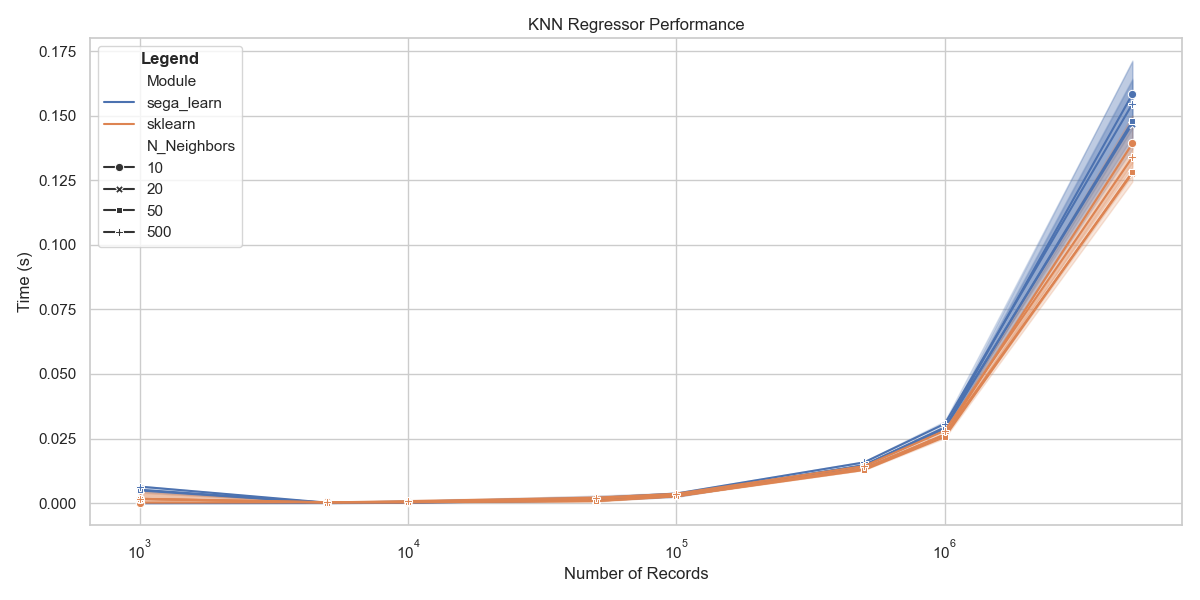
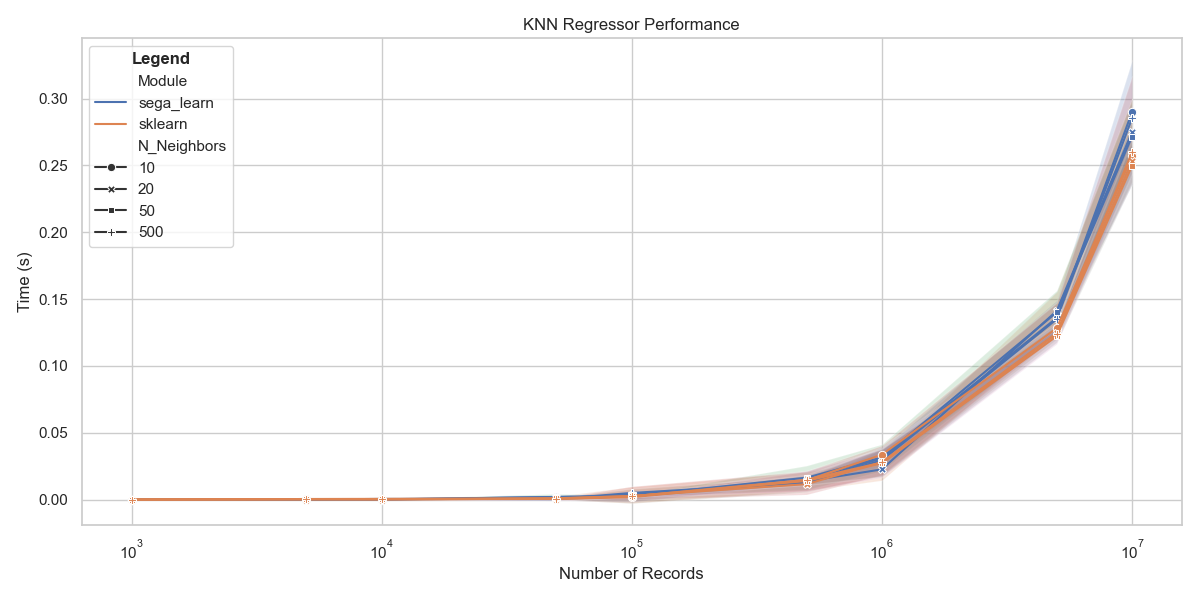
Enhance KNN performance tests with progress tracking and std dev plot

diff --git a/tests_performance/nearest_neighbors/test_nearest_neighbors.py b/tests_performance/nearest_neighbors/test_nearest_neighbors.py
@@ -4,7 +4,7 @@ import sys
 import time
 import numpy as np
 import pandas as pd
-import warnings
+from tqdm import tqdm
 
 # Change the working directory to the parent directory to allow importing the segadb package.
 sys.path.append(os.path.abspath(os.path.join(os.path.dirname(__file__), '..', '..')))
@@ -27,69 +27,90 @@ def time_function(func, num_repeats, *args, **kwargs):
     stddev_time = np.std(times)
     return avg_time, stddev_time, result
 
-def time_knn_classifiers(num_repeats=10, n_neighbors=list, n_records=list, n_jobs=1):
+def time_knn_classifiers(num_repeats=10, n_neighbors=list, n_records=list, n_jobs=int, num_features=int, num_classes=int):
     from sklearn.neighbors import KNeighborsClassifier as sklearn_knn
     
-    knn_classifiers = []
-    for n in n_neighbors:
-        knn_classifiers.append(KNeighborsClassifier(n_neighbors=n))
-        knn_classifiers.append(sklearn_knn(n_neighbors=n, n_jobs=n_jobs))
+    knn_classifiers = [KNeighborsClassifier, sklearn_knn]
         
     # Create a DataFrame to store the results with correct data types
     results = pd.DataFrame(columns=["Module", "N_Neighbors", "N_Records", "Time (s)", "StdDev (s)"],
                            dtype=object)
     
-    for n in n_neighbors:
-        for n_record in n_records:
-            # Generate synthetic data
-            X, y = make_classification(n_samples=n_record, n_features=20, n_classes=2)
-            
-            for knn_classifier in knn_classifiers:
-                avg_time, stddev_time, _ = time_function(knn_classifier.fit, num_repeats, X, y)
+    total_iterations = len(n_neighbors) * len(n_records) * len(knn_classifiers)
+    with tqdm(total=total_iterations, desc="Processing", unit="iteration") as pbar:    
+        for n in n_neighbors:
+            for n_record in n_records:
+                # Generate synthetic data
+                X, y = make_classification(n_samples=n_record, n_features=num_features, n_classes=num_classes)
                 
-                # Append the results to the DataFrame
-                results.loc[len(results)] = ["sega_learn" if isinstance(knn_classifier, sega_learn.nearest_neighbors.KNeighborsClassifier) else "sklearn",
-                                            n, n_record, avg_time, stddev_time]
-                
+                for knn_classifier in knn_classifiers:
+                    # Create an instance of the classifier
+                    if knn_classifier == KNeighborsClassifier:
+                        knn_classifier = KNeighborsClassifier(n_neighbors=n)
+                    else:
+                        knn_classifier = sklearn_knn(n_neighbors=n, n_jobs=n_jobs)
+                    
+                    avg_time, stddev_time, _ = time_function(knn_classifier.fit, num_repeats, X, y)
+                    
+                    # Append the results to the DataFrame
+                    results.loc[len(results)] = ["sega_learn" if isinstance(knn_classifier, KNeighborsClassifier) else "sklearn",
+                                                n, n_record, avg_time, stddev_time]
+                    pbar.update(1)  # Update the progress bar for each iteration
+    
     return results
     
 
-def time_knn_regressors(num_repeats=10, n_neighbors=list, n_records=list, n_jobs=1):
+def time_knn_regressors(num_repeats=10, n_neighbors=list, n_records=list, n_jobs=int, num_features=int):
     from sklearn.neighbors import KNeighborsRegressor as sklearn_knn
     
-    knn_regressors = []
-    for n in n_neighbors:
-        knn_regressors.append(KNeighborsRegressor(n_neighbors=n))
-        knn_regressors.append(sklearn_knn(n_neighbors=n, n_jobs=n_jobs))
+    knn_regressors = [KNeighborsRegressor, sklearn_knn]
         
     # Create a DataFrame to store the results with correct data types
     results = pd.DataFrame(columns=["Module", "N_Neighbors", "N_Records", "Time (s)", "StdDev (s)"],
                            dtype=object)
     
-    for n in n_neighbors:
-        for n_record in n_records:
-            # Generate synthetic data
-            X, y = make_regression(n_samples=n_record, n_features=20)
-            
-            for knn_regressor in knn_regressors:
-                avg_time, stddev_time, _ = time_function(knn_regressor.fit, num_repeats, X, y)
+    total_iterations = len(n_neighbors) * len(n_records) * len(knn_regressors)
+    with tqdm(total=total_iterations, desc="Processing", unit="iteration") as pbar:    
+        for n in n_neighbors:
+            for n_record in n_records:
+                # Generate synthetic data
+                X, y = make_regression(n_samples=n_record, n_features=num_features)
                 
-                # Append the results to the DataFrame
-                results.loc[len(results)] = ["sega_learn" if isinstance(knn_regressor, KNeighborsRegressor) else "sklearn",
-                                             n, n_record, avg_time, stddev_time]
-                
+                for knn_regressor in knn_regressors:
+                    # Create an instance of the regressor
+                    if knn_regressor == KNeighborsRegressor:
+                        knn_regressor = KNeighborsRegressor(n_neighbors=n)
+                    else:
+                        knn_regressor = sklearn_knn(n_neighbors=n, n_jobs=n_jobs)
+                    
+                    avg_time, stddev_time, _ = time_function(knn_regressor.fit, num_repeats, X, y)
+                    
+                    # Append the results to the DataFrame
+                    results.loc[len(results)] = ["sega_learn" if isinstance(knn_regressor, KNeighborsRegressor) else "sklearn",
+                                                n, n_record, avg_time, stddev_time]
+                    pbar.update(1)
+    
     return results
     
 def plot_results(results, title):
     import matplotlib.pyplot as plt
     import seaborn as sns
     
+    # Group the results by Module and N_Neighbors
+    grouped_results = results.groupby(["Module", "N_Neighbors", "N_Records"]).agg({"Time (s)": "mean", "StdDev (s)": "mean"}).reset_index()
+
     # Set the style of seaborn
     sns.set_theme(style="whitegrid")
-    
     # Create a line plot for the results
     plt.figure(figsize=(12, 6))
-    sns.lineplot(x="N_Records", y="Time (s)", hue="Module", style="N_Neighbors", markers=True, dashes=False, data=results)
+    sns.lineplot(x="N_Records", y="Time (s)", hue="Module", style="N_Neighbors", markers=True, dashes=False, data=grouped_results)
+    
+    # Fill standard deviation areas
+    for module in grouped_results["Module"].unique():
+        for n_neighbors in grouped_results["N_Neighbors"].unique():
+            subset = grouped_results[(grouped_results["Module"] == module) & (grouped_results["N_Neighbors"] == n_neighbors)]
+            plt.fill_between(subset["N_Records"], subset["Time (s)"] - subset["StdDev (s)"], subset["Time (s)"] + subset["StdDev (s)"], alpha=0.2)
+
     plt.xscale("log")
     plt.title(title)
     plt.xlabel("Number of Records")
@@ -100,21 +121,22 @@ def plot_results(results, title):
     plt.savefig(f"tests_performance/nearest_neighbors/{title}.png")
     # plt.show()
     
-    
 def run():
     # Define parameters for testing
     n_neighbors = [10, 20, 50, 500]
-    n_records = [1_000, 5_000, 10_000, 50_000, 100_000, 500_000, 1_000_000, 5_000_000]
+    n_records = [1_000, 5_000, 10_000, 50_000, 100_000, 500_000, 1_000_000, 5_000_000, 10_000_000]
+    num_features = 20
+    num_classes = 2
     num_repeats = 5
     n_jobs = 1
     
     # Run the tests
     print("Testing KNN Classifiers...")
-    class_times = time_knn_classifiers(num_repeats=num_repeats, n_neighbors=n_neighbors, n_records=n_records, n_jobs=n_jobs)
+    class_times = time_knn_classifiers(num_repeats=num_repeats, n_neighbors=n_neighbors, n_records=n_records, n_jobs=n_jobs, num_features=num_features, num_classes=num_classes)
     plot_results(class_times, "KNN Classifier Performance")
     
     print("\nTesting KNN Regressors...")
-    reg_times = time_knn_regressors(num_repeats=num_repeats, n_neighbors=n_neighbors, n_records=n_records, n_jobs=n_jobs)
+    reg_times = time_knn_regressors(num_repeats=num_repeats, n_neighbors=n_neighbors, n_records=n_records, n_jobs=n_jobs, num_features=num_features)
     plot_results(reg_times, "KNN Regressor Performance")
     
     
